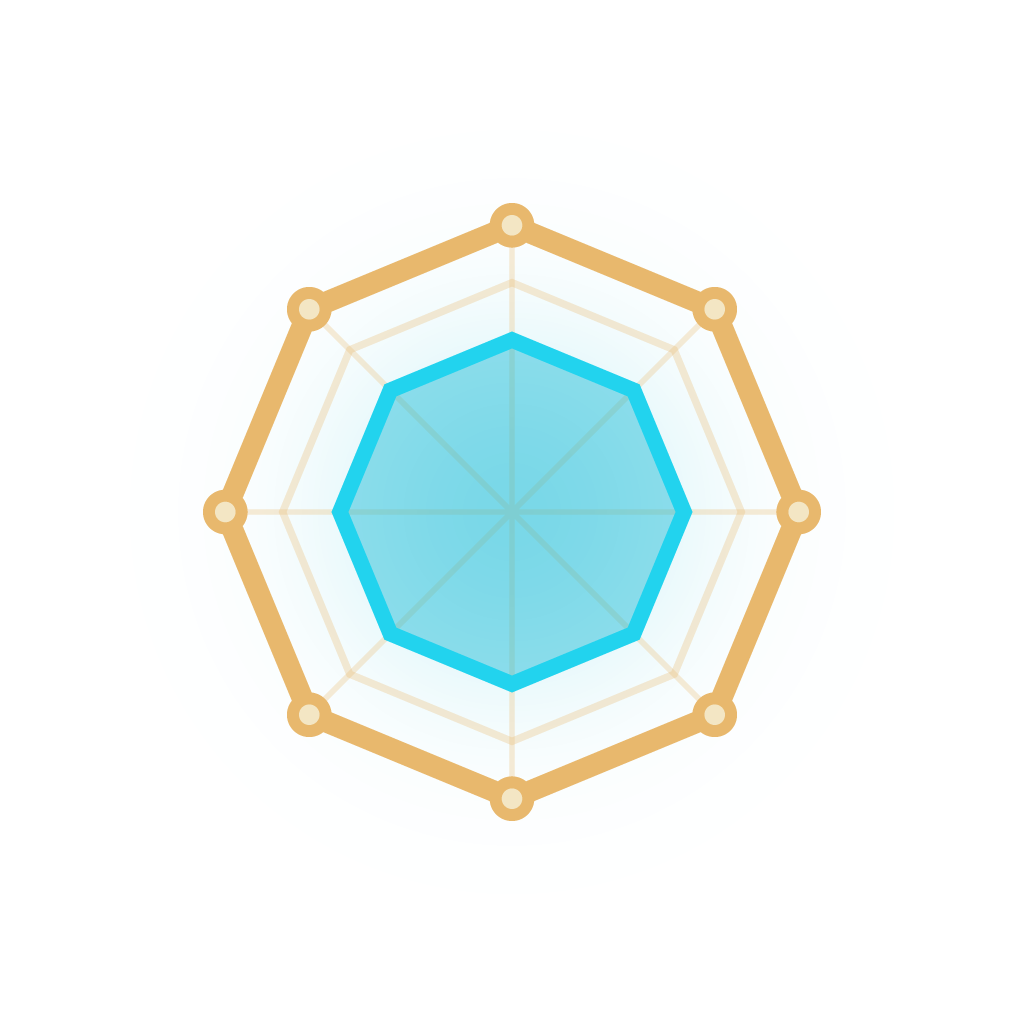
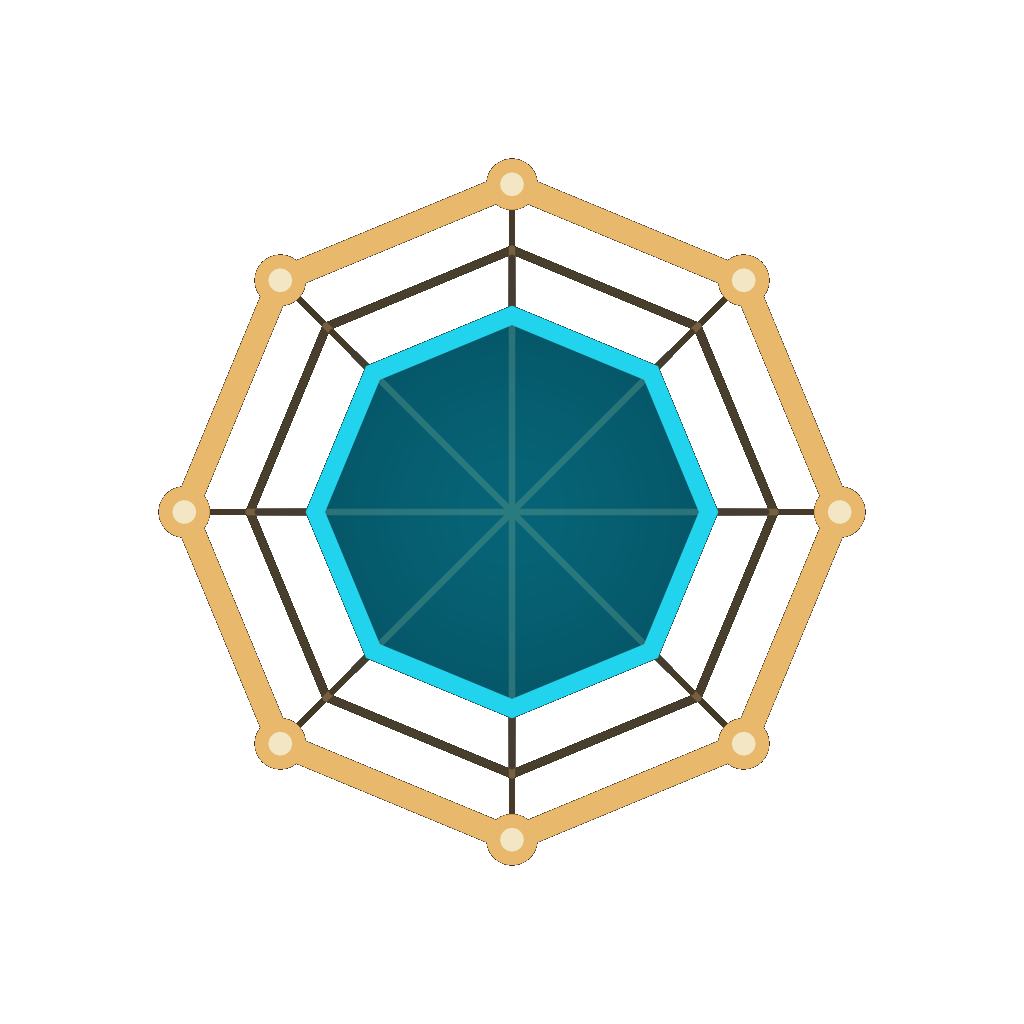
Center login with transparent mark; style Android nav bar; enlarge Google button.

Changed region(s): [[0.1562, 0.1562, 0.8438, 0.8438]]

diff --git a/src/app/onboarding.tsx b/src/app/onboarding.tsx
@@ -35,7 +35,7 @@ import { profileAge } from '@/utils/profile';
 
 const YEAR_LENGTH = 4;
 const DAY_MONTH_LENGTH = 2;
-const mark = require('../../assets/icon.png') as number;
+const mark = require('../../assets/mark.png') as number;
 
 type OnboardingStep = 'login' | 'who' | 'survey';
 
@@ -137,13 +137,15 @@ function LoginStep({ onSignedIn }: { onSignedIn: () => void }): ReactElement {
           },
         ]}
       >
-        <View style={styles.loginBrand}>
-          <Image source={mark} style={styles.loginMark} resizeMode="contain" />
-          <Text style={styles.loginTitle}>{t('onboarding.title')}</Text>
-          <Text style={styles.loginSubtitle}>{t('onboarding.subtitle')}</Text>
-        </View>
-        <View style={styles.loginActions}>
-          <GoogleSignInButton busy={busy} onPress={onGoogle} />
+        <View style={styles.loginCenter}>
+          <View style={styles.loginBrand}>
+            <Image source={mark} style={styles.loginMark} resizeMode="contain" />
+            <Text style={styles.loginTitle}>{t('onboarding.title')}</Text>
+            <Text style={styles.loginSubtitle}>{t('onboarding.subtitle')}</Text>
+          </View>
+          <View style={styles.loginActions}>
+            <GoogleSignInButton busy={busy} onPress={onGoogle} />
+          </View>
         </View>
       </View>
     </View>
@@ -355,16 +357,22 @@ const styles = StyleSheet.create({
   loginBody: {
     flex: 1,
     paddingHorizontal: layout.screenX,
-    justifyContent: 'space-between',
+    justifyContent: 'center',
+  },
+  loginCenter: {
+    width: '100%',
+    alignItems: 'stretch',
+    gap: space.xxxl + space.xl,
+    marginBottom: space.xxxl,
   },
   loginBrand: {
     alignItems: 'center',
-    paddingTop: space.xl,
   },
   loginMark: {
-    width: 88,
-    height: 88,
+    width: 96,
+    height: 96,
     marginBottom: space.lg,
+    backgroundColor: 'transparent',
   },
   loginTitle: {
     ...typography.wordmark,
@@ -383,7 +391,7 @@ const styles = StyleSheet.create({
     textAlign: 'center',
   },
   loginActions: {
-    paddingBottom: space.xxl,
+    width: '100%',
   },
   poster: {
     alignItems: 'center',

diff --git a/src/components/GoogleSignInButton.tsx b/src/components/GoogleSignInButton.tsx
@@ -55,7 +55,7 @@ export function GoogleSignInButton({
 
 function GoogleMark(): ReactElement {
   return (
-    <Svg width={18} height={18} viewBox="0 0 48 48" accessibilityElementsHidden>
+    <Svg width={20} height={20} viewBox="0 0 48 48" accessibilityElementsHidden>
       <Path
         fill="#EA4335"
         d="M24 9.5c3.54 0 6.71 1.22 9.21 3.6l6.85-6.85C35.9 2.38 30.47 0 24 0 14.62 0 6.51 5.38 2.56 13.22l7.98 6.19C12.43 13.72 17.74 9.5 24 9.5z"
@@ -78,18 +78,18 @@ function GoogleMark(): ReactElement {
 
 const styles = StyleSheet.create({
   hit: {
-    minHeight: 48,
+    minHeight: 56,
   },
   blocked: {
     opacity: 0.55,
   },
   face: {
-    minHeight: 48,
-    borderRadius: radius.md,
+    minHeight: 56,
+    borderRadius: radius.lg,
     borderWidth: 1.5,
     borderColor: colors.accent.gold,
     backgroundColor: withAlpha(colors.text.ivory, 0.96),
-    paddingHorizontal: space.lg,
+    paddingHorizontal: space.xl,
     flexDirection: 'row',
     alignItems: 'center',
     justifyContent: 'center',
@@ -97,6 +97,8 @@ const styles = StyleSheet.create({
   },
   label: {
     ...typography.button,
+    fontSize: 17,
+    lineHeight: 22,
     color: colors.accent.goldDeep,
     letterSpacing: 0.2,
   },

diff --git a/src/app/_layout.tsx b/src/app/_layout.tsx
@@ -1,10 +1,11 @@
 import 'react-native-gesture-handler';
 
 import { Stack } from 'expo-router';
+import { NavigationBar } from 'expo-navigation-bar';
 import { StatusBar } from 'expo-status-bar';
 import * as SplashScreen from 'expo-splash-screen';
 import { type ReactElement, useCallback, useEffect, useState } from 'react';
-import { Image, Pressable, StyleSheet, Text, View } from 'react-native';
+import { Image, Platform, Pressable, StyleSheet, Text, View } from 'react-native';
 import { GestureHandlerRootView } from 'react-native-gesture-handler';
 
 import { DeadlineWatcher } from '@/components/DeadlineWatcher';
@@ -60,6 +61,7 @@ export default function RootLayout(): ReactElement {
   return (
     <GestureHandlerRootView style={styles.root}>
       <StatusBar style="light" />
+      {Platform.OS === 'android' ? <NavigationBar style="light" /> : null}
       <DeadlineWatcher />
       {showApp ? (
         // Mounted only after persist lands. A timeout must never show seed
